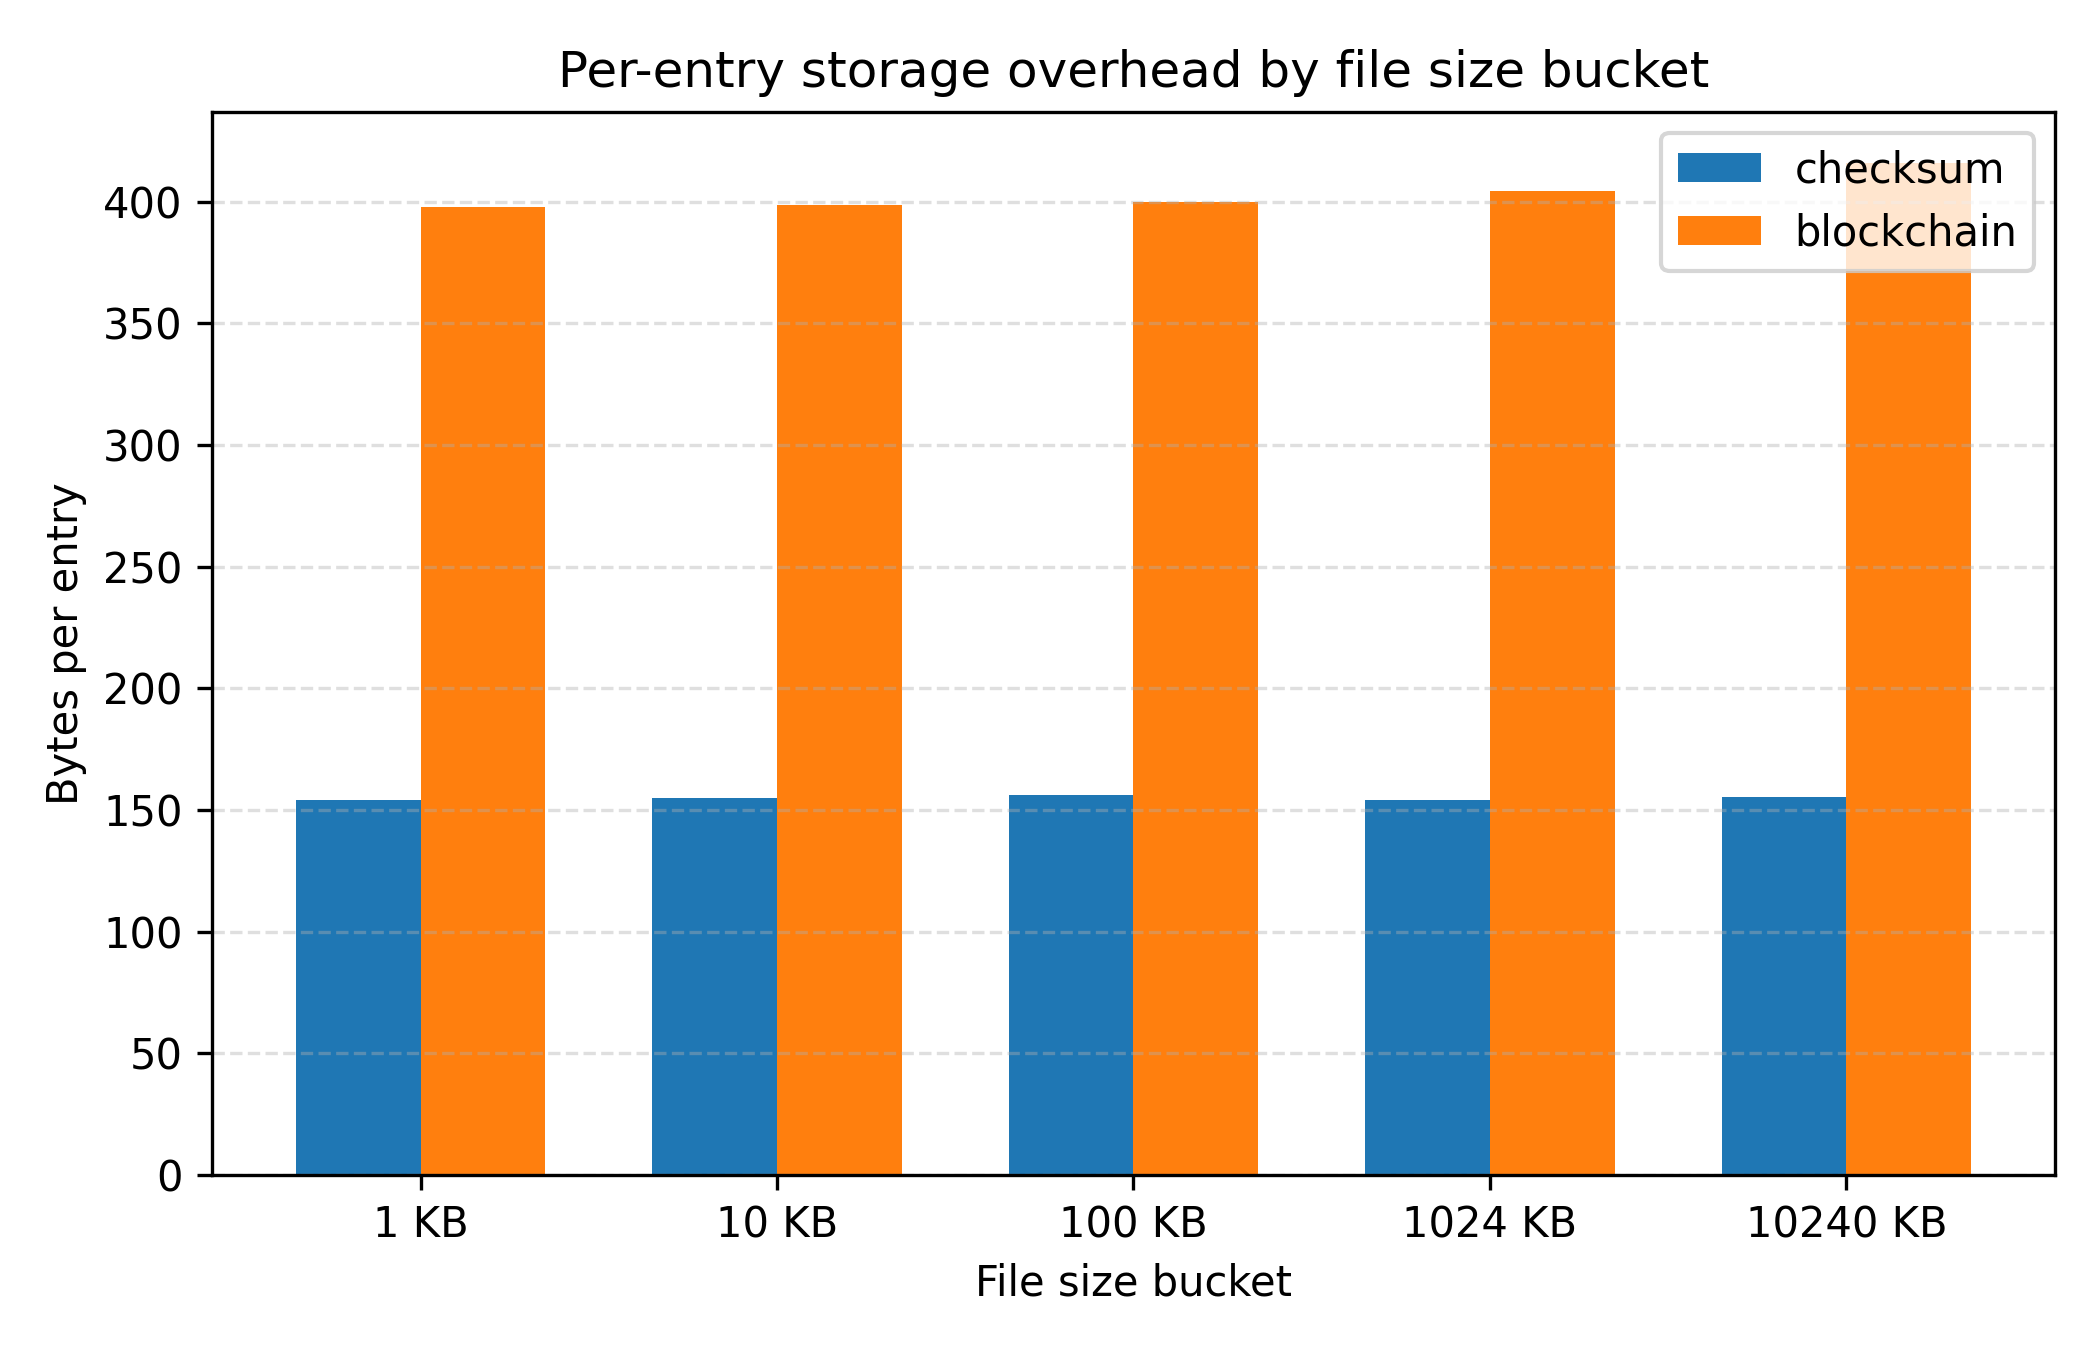
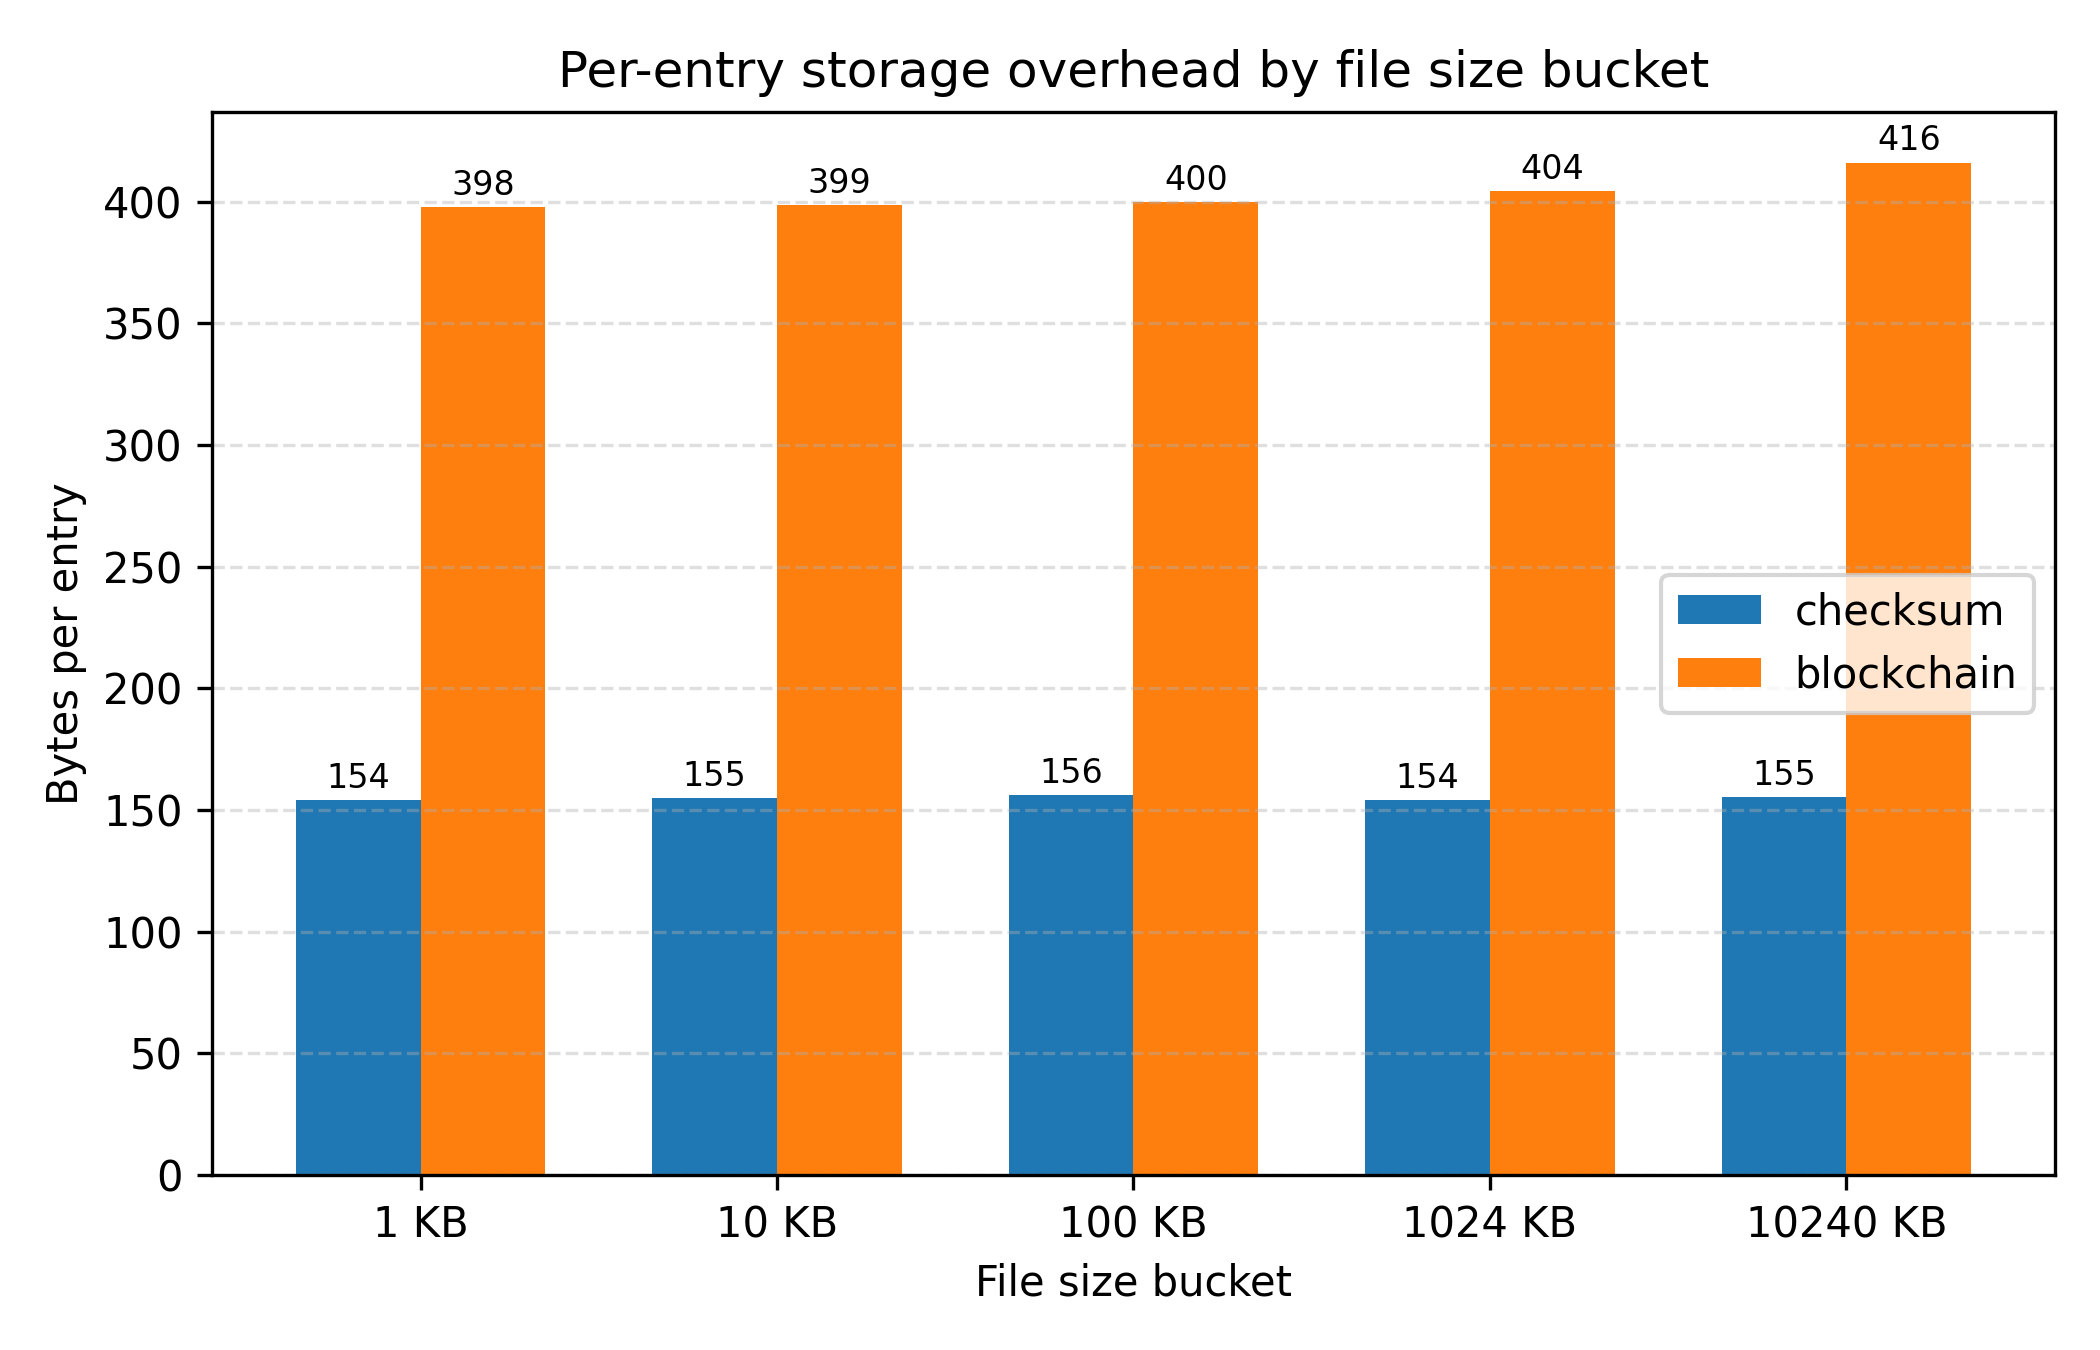
fixed figure 3 graph

diff --git a/experiments/plots.py b/experiments/plots.py
@@ -129,6 +129,10 @@ def plot_storage(rows):
     fig, ax = plt.subplots(figsize=(7, 4.5))
     ax.bar([i - width/2 for i in x], checksum_sizes, width, label="checksum")
     ax.bar([i + width/2 for i in x], blockchain_sizes, width, label="blockchain")
+    
+    for i, (c, b) in enumerate(zip(checksum_sizes, blockchain_sizes)):
+        ax.text(i - width/2, c + 5, f"{c:.0f}", ha="center", fontsize=8)
+        ax.text(i + width/2, b + 5, f"{b:.0f}", ha="center", fontsize=8)
 
     ax.set_xticks(list(x))
     ax.set_xticklabels([f"{b} KB" for b in buckets])
